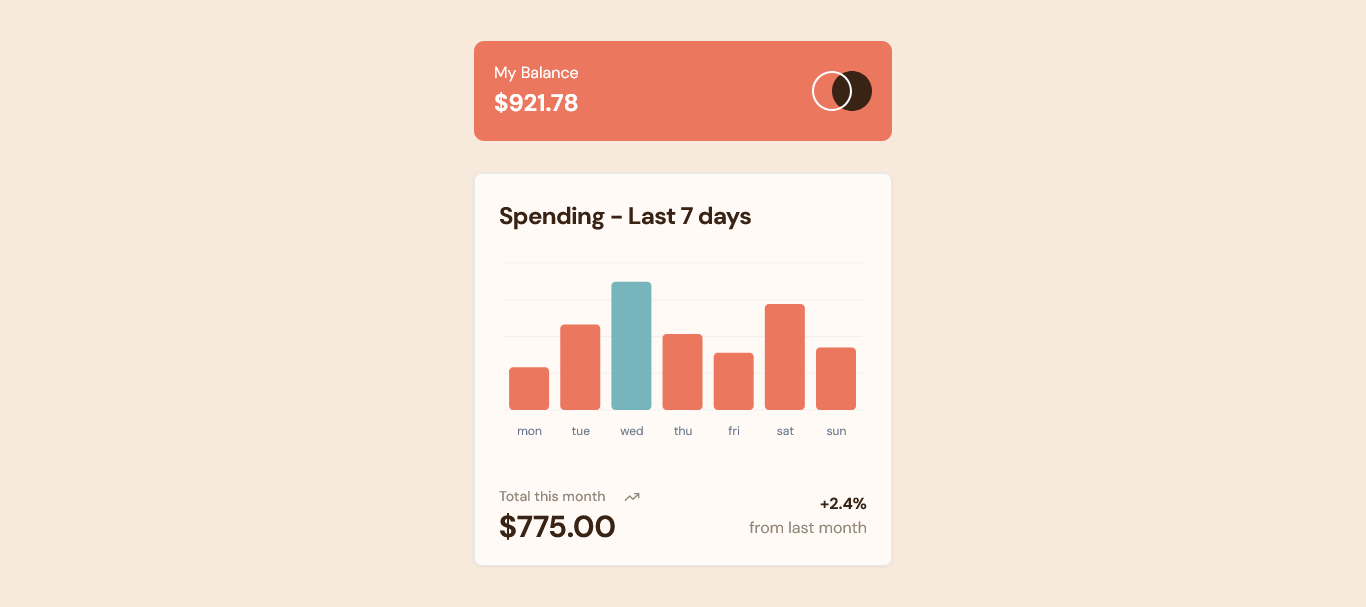
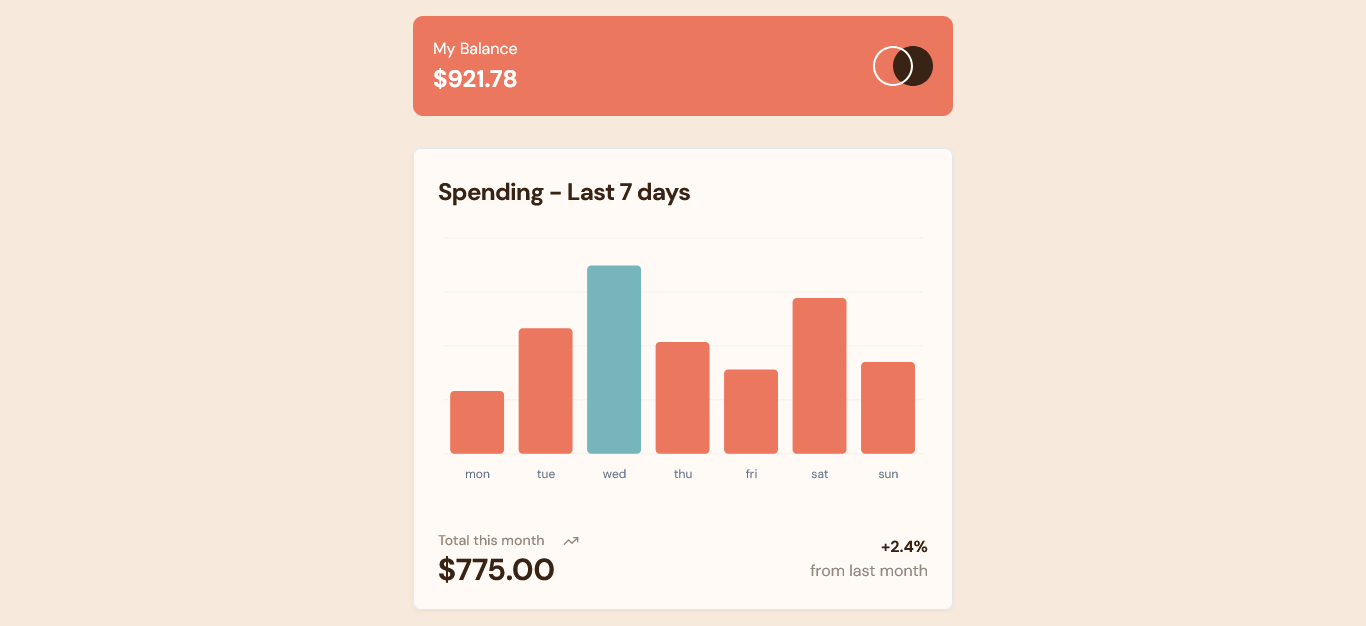
font size for desktop adjusted

diff --git a/src/App.tsx b/src/App.tsx
@@ -82,10 +82,10 @@ function App() {
                 <div className=" bg-[hsl(var(--soft-red))] rounded-[10px] p-5">
                     <div className="flex justify-between">
                         <div className="flex flex-col justify-center align-middle">
-                            <h3 className="text-[hsl(var(--white))] text-[1rem]">
+                            <h3 className="text-[hsl(var(--white))] text-[1rem] lg:text-[1.5rem]">
                                 My Balance
                             </h3>
-                            <p className="text-[1.5rem] text-[hsl(var(--white))] font-bold">
+                            <p className="text-[1.5rem] lg:text-[2.5rem] text-[hsl(var(--white))] font-bold">
                                 $921.78
                             </p>
                         </div>
@@ -98,7 +98,7 @@ function App() {
             <div className="max-w-[35.75rem] w-full p-4">
                 <Card className="bg-[hsl(var(--very-pale-orange))]">
                     <CardHeader>
-                        <CardTitle className="text-[1.5rem] font-bold text-[hsl(var(--dark-brown))]">
+                        <CardTitle className="text-[1.5rem] lg:text-[2rem] font-bold text-[hsl(var(--dark-brown))]">
                             {" "}
                             Spending - Last 7 days
                         </CardTitle>
@@ -129,16 +129,16 @@ function App() {
                     </CardContent>
                     <CardFooter className="flex-row justify-between items-center gap-2 text-sm">
                         <div className="flex gap-2 font-medium leading-none text-[hsl(var(--medium-brown))]">
-                            <p className="flex flex-col gap-2">
+                            <p className="flex flex-col gap-2 text-[1rem] lg:text-[1.5rem]">
                                 Total this month{" "}
-                                <span className="font-bold text-[hsl(var(--dark-brown))] text-[1.9rem] ">
+                                <span className="font-bold text-[hsl(var(--dark-brown))] text-[2.5rem] lg:text-[3.75rem]">
                                     ${(totalAmount * 3.4).toFixed(2)}
                                 </span>
                             </p>
                             <TrendingUp className="h-4 w-4" />
                         </div>
                         <div className="leading-none text-[1rem]  ">
-                            <p className="flex flex-col text-[hsl(var(--medium-brown))] items-end gap-2">
+                            <p className="flex flex-col text-[hsl(var(--medium-brown))]  text-[1rem] lg:text-[1.5rem] items-end gap-2">
                                 <span className="font-bold text-[hsl(var(--dark-brown))]">
                                     +2.4%
                                 </span>{" "}
